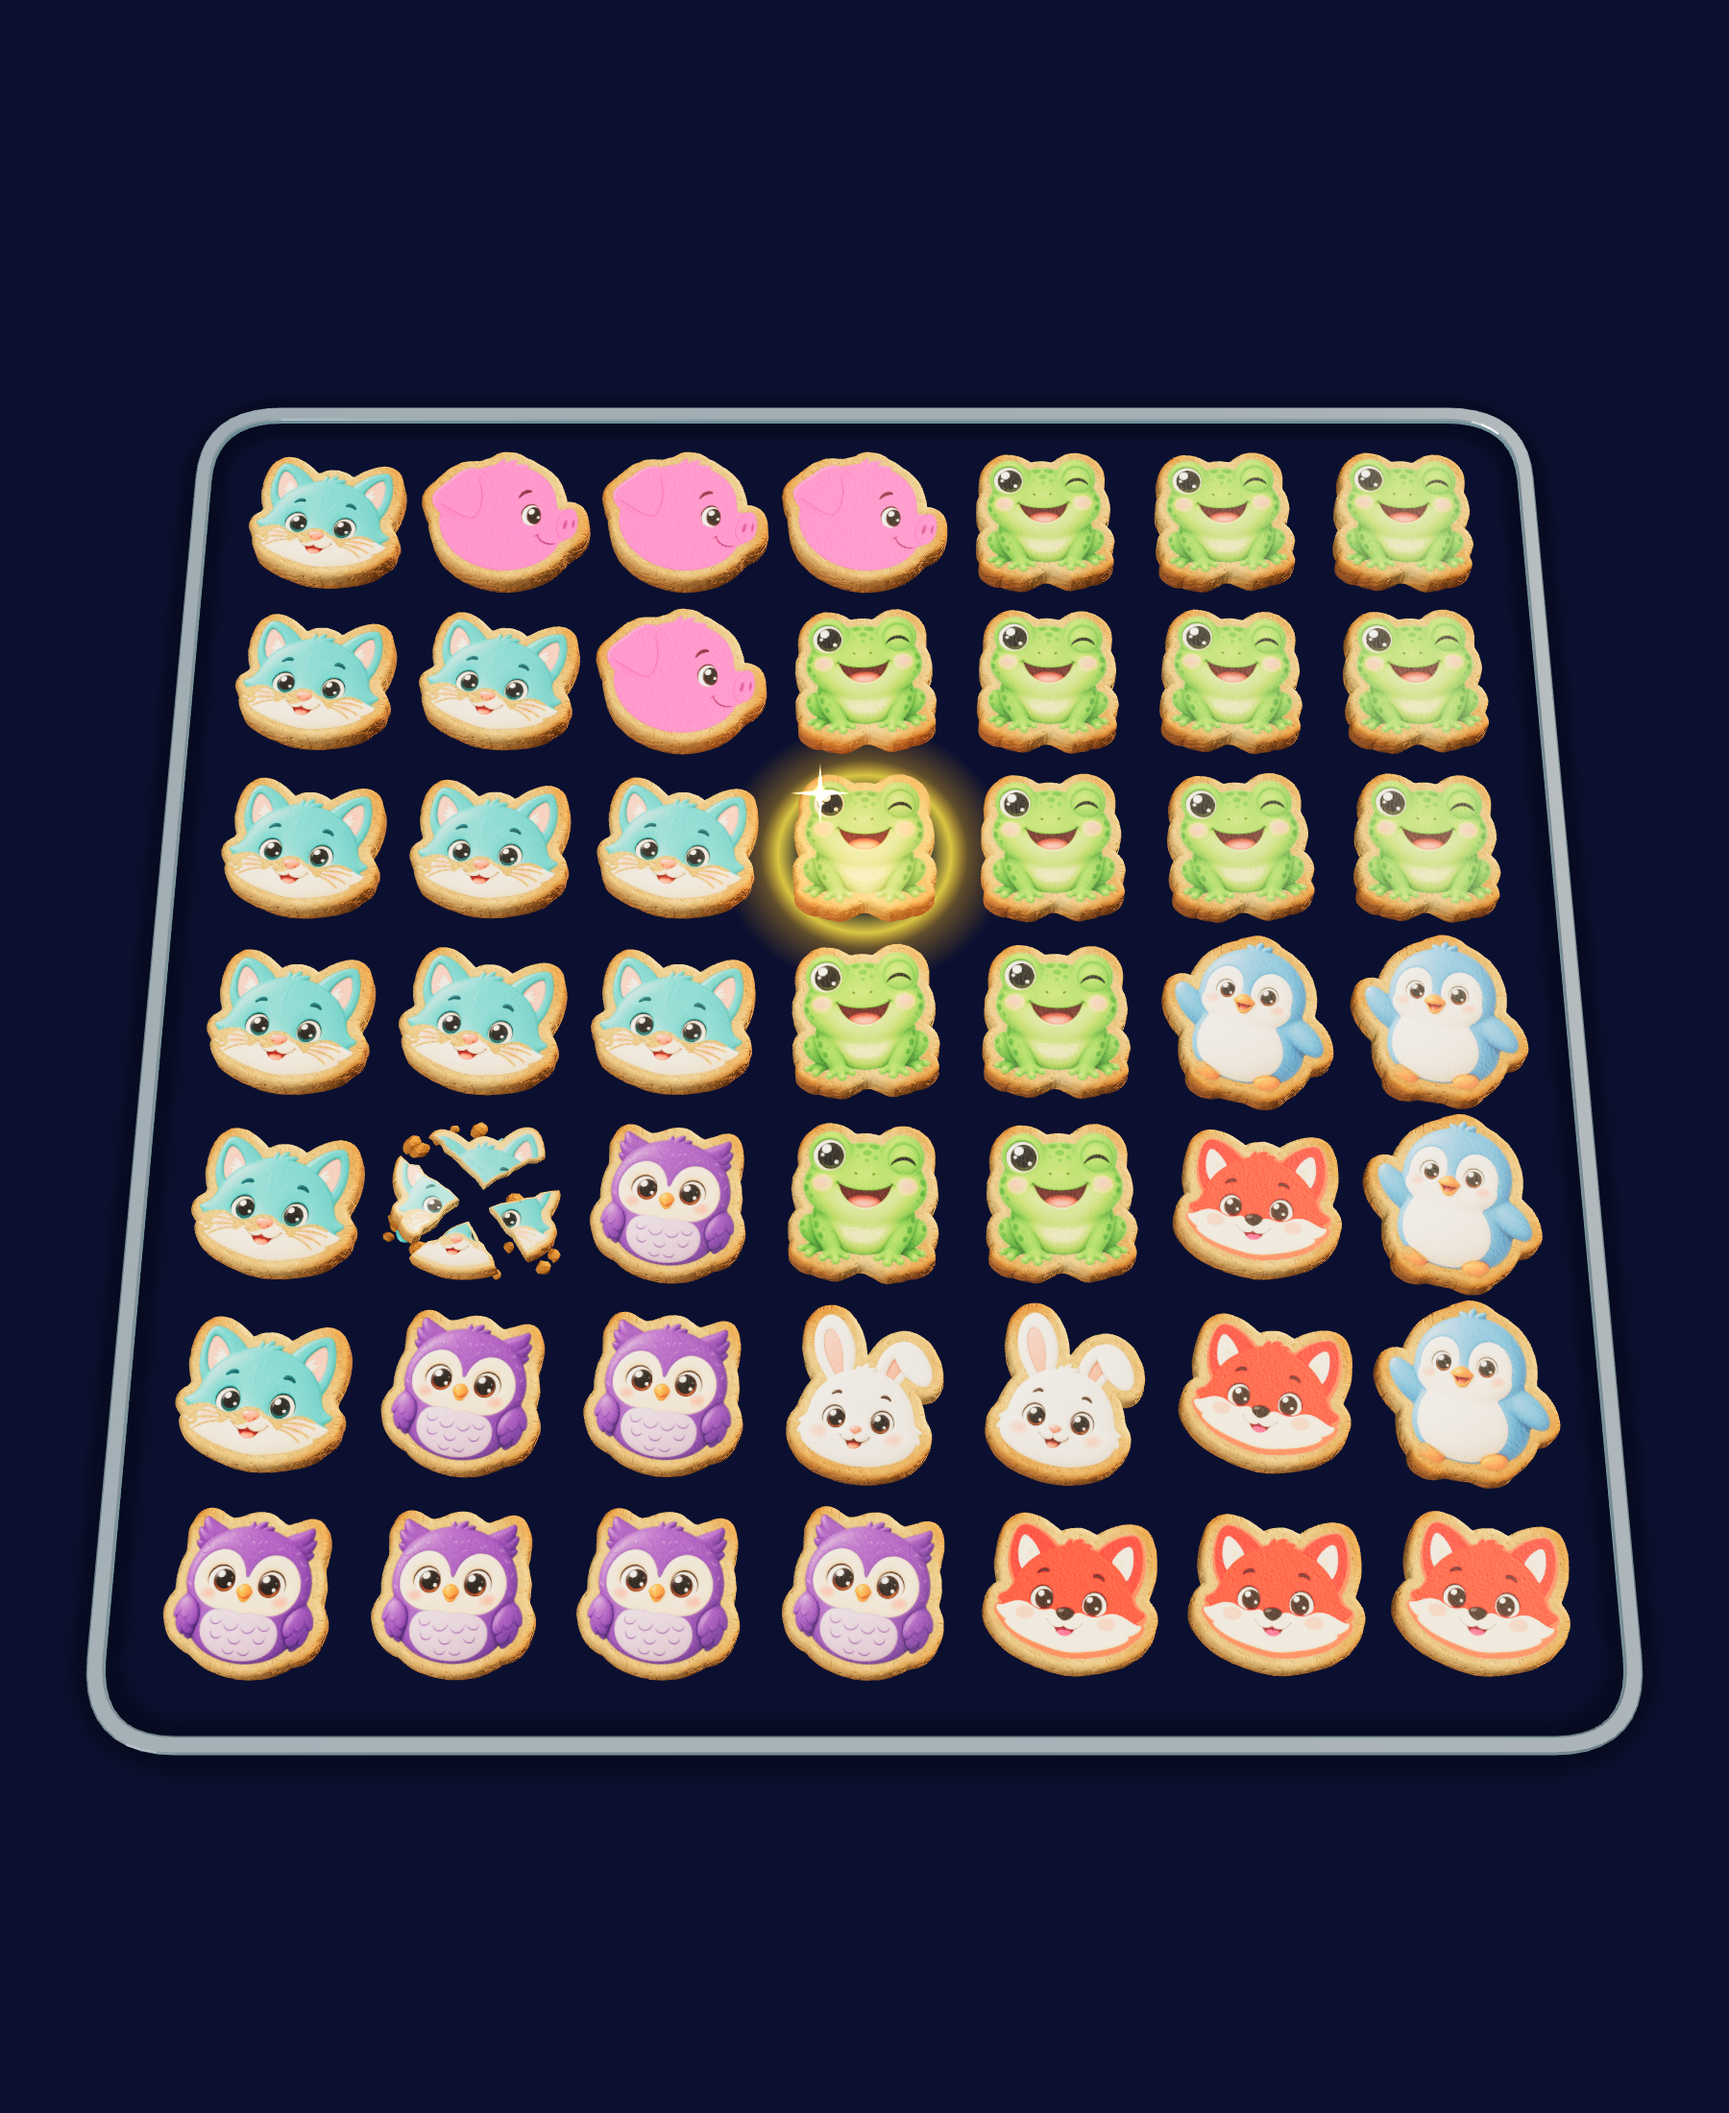
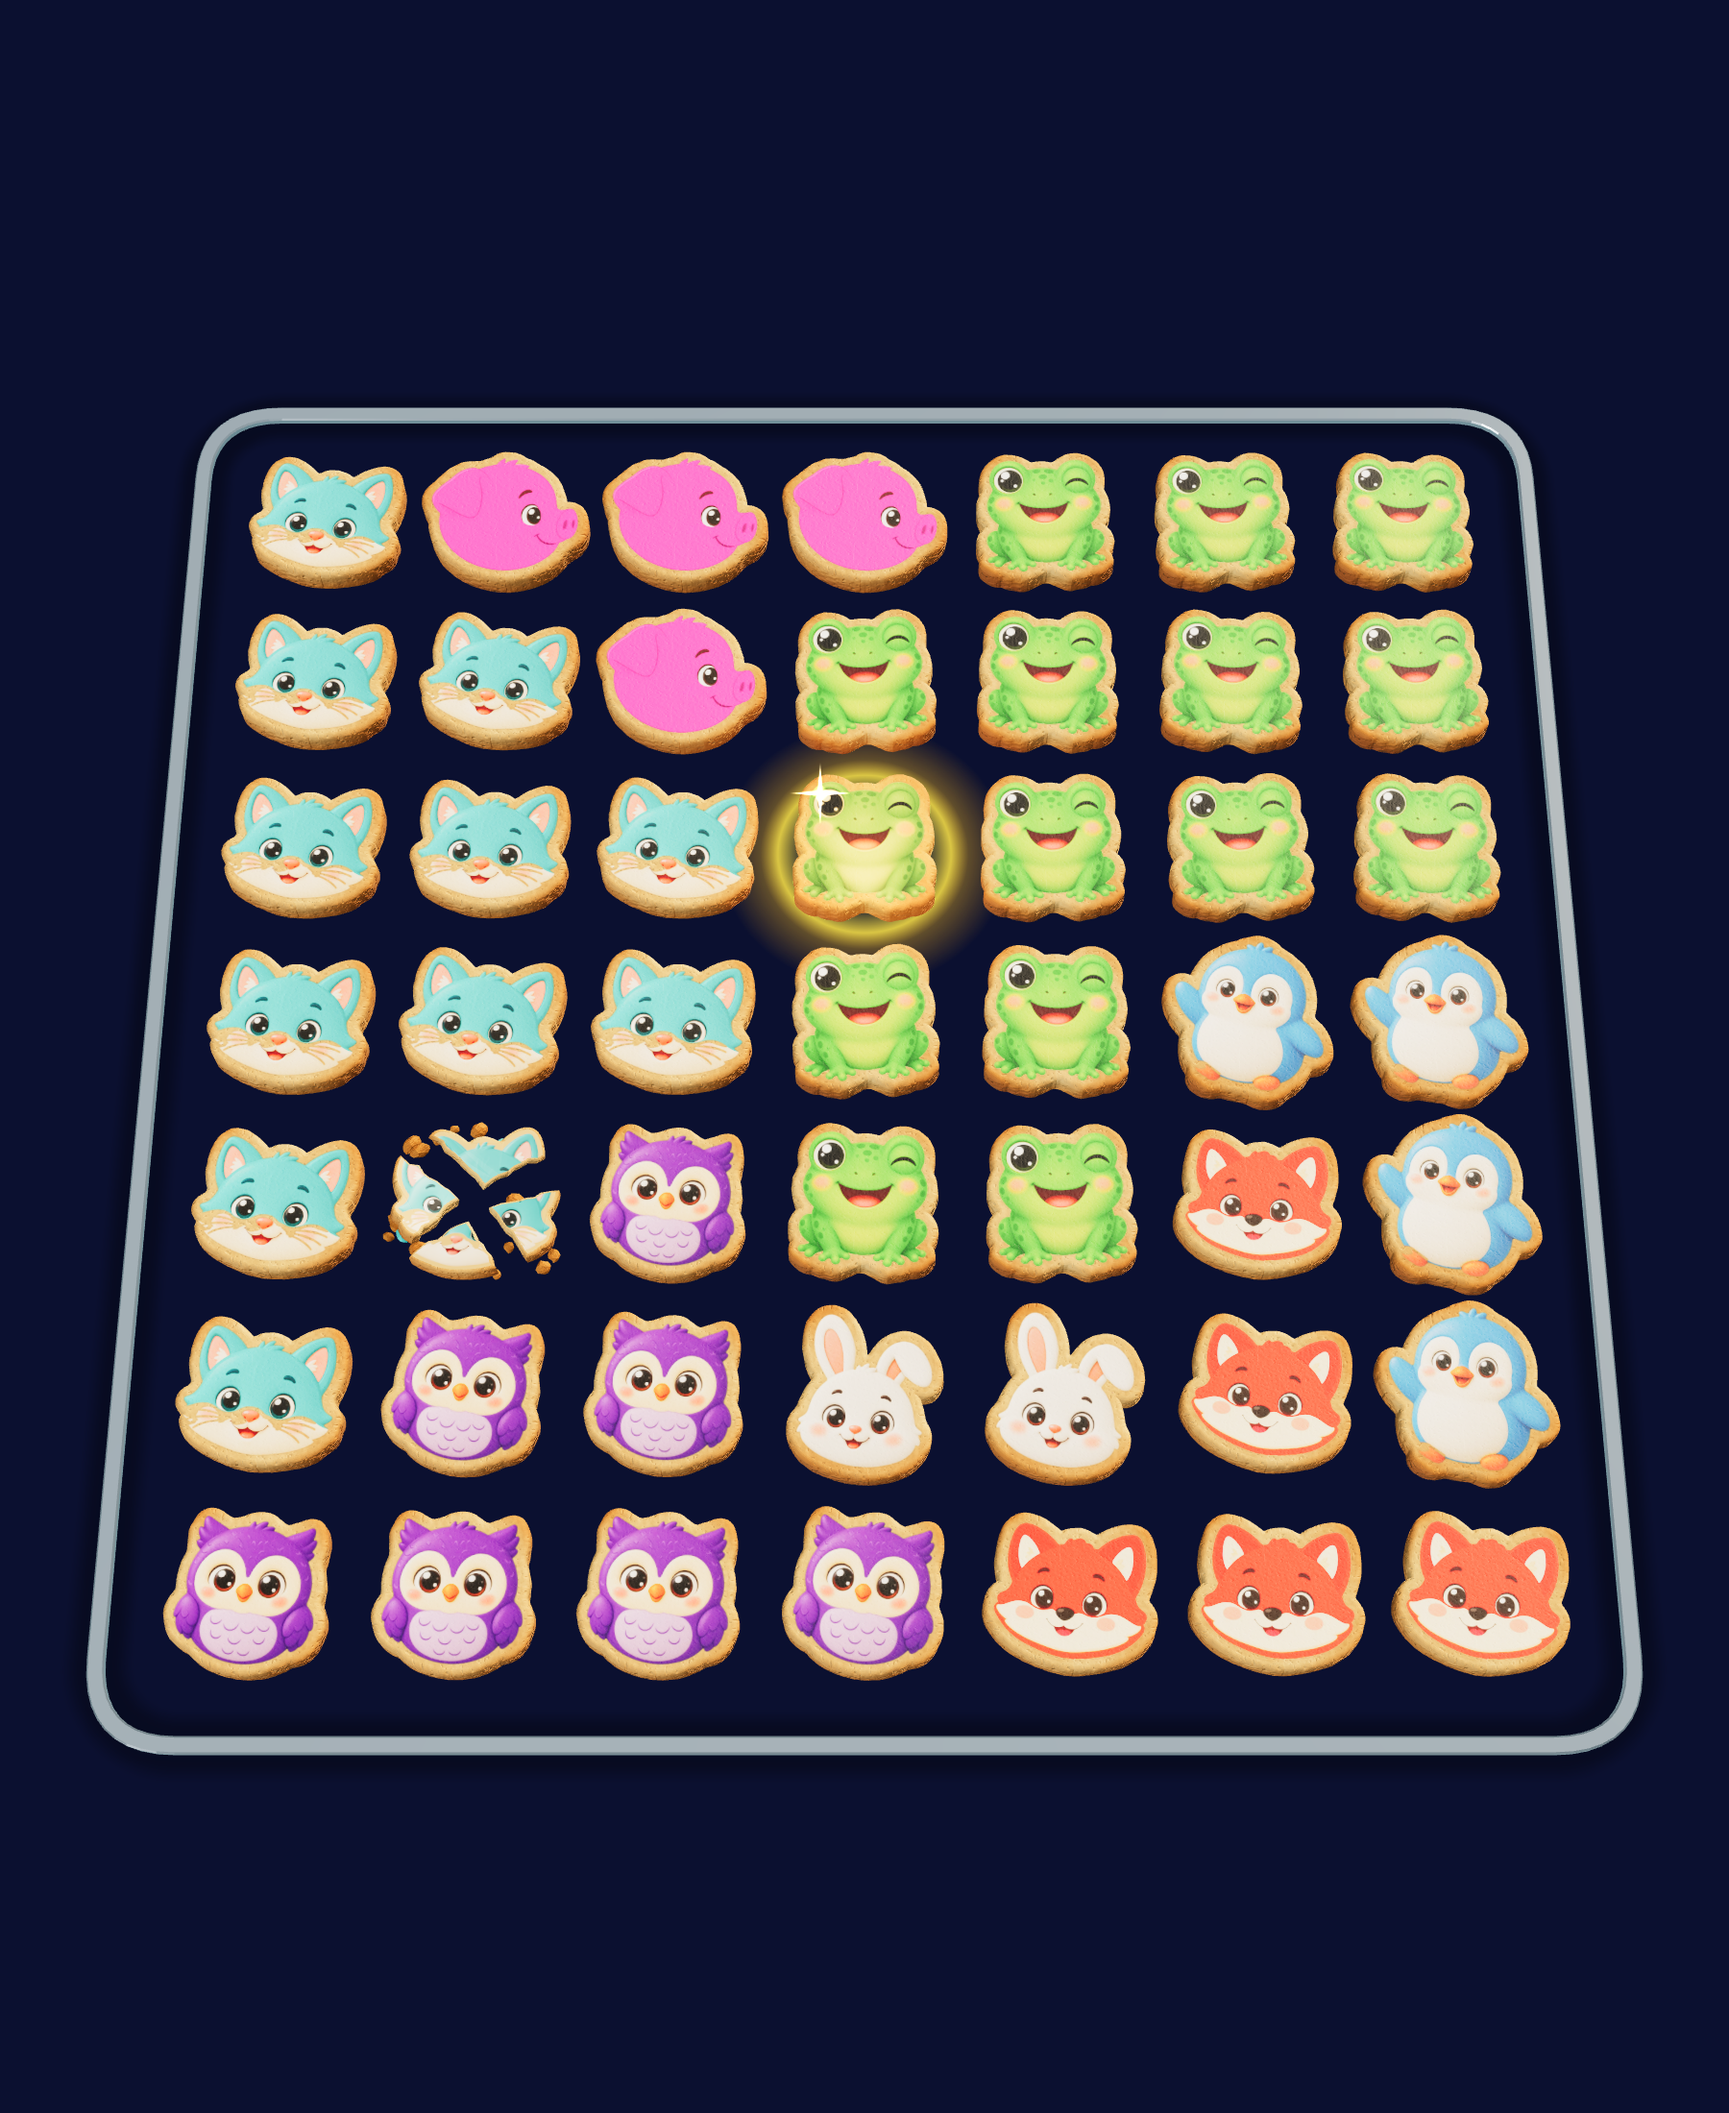
Keks-Studie Set F: finale Renders (Lineup, Nahaufnahmen, Brett mit kräftigerem Druck), README

diff --git a/design-concepts/cookies/render.html b/design-concepts/cookies/render.html
@@ -11,6 +11,7 @@ const q = new URLSearchParams(location.search), SET = q.get('set') || 'A', VIEW 
 const host = document.getElementById('host');
 const ready = () => document.documentElement.dataset.ready = '1';
 window.onerror = e => { document.documentElement.dataset.error = String(e); };
+if (VIEW === 'board') globalThis.PRINT_SAT = +(q.get('psat') || 1.5);
 if (SET === 'F') await (await import('./cookies-f.mjs')).loadArt();
 globalThis.COOKIE_N = +(q.get('n') || (VIEW === 'board' ? 640 : 1024));
 if (VIEW === 'board') {

diff --git a/design-concepts/cookies/README.md b/design-concepts/cookies/README.md
@@ -29,9 +29,15 @@ Gelb bleibt die Leuchtfarbe.
   - Augen im Pixar-Stil mit Blickrichtung (`S.look`).
   - Nahaufnahmen: `view=closeups&keys=2,7,9`.
 
+- **F · Bedruckte Kekse** (`cookies-f.mjs`, `art/`): echter 3D-Mürbeteig-Keks in der Silhouette des Tiers, mit Backrand. Das Pixar-Motiv ist flach aufgedruckt, mit ganz leichtem Glanz und ohne Relief.
+  - `art/prepare.py` stellt die Original-JPGs in `art/src/` frei und entfernt gezeichnete Keksränder.
+  - Es schiebt die Farben in Richtung der Regionsfarben (Fuchs → Rot, Schwein → Pink, Frosch → Grün, Eule → Lila).
+  - Es schreibt Texturen mit 512 px (`*.webp` für Mobilgeräte, `*.png`) und `outlines.json` (Umriss = Motiv + Backrand).
+  - Vor `buildCookie('F', …)` muss `await loadArt()` laufen.
+
 ## Dateien
 - `cookies.mjs`: die Bibliothek, mit dem `three` aus `vendor/squish-attack`, also dieselbe Version wie im Spiel. Mit `buildCookie(set, farbe, {state, size})` bekommst du eine `THREE.Group`, die sich direkt ins Spiel setzen lässt.
-  - `set`: `'A' | 'B' | 'C' | 'D' | 'E'`
+  - `set`: `'A' | 'B' | 'C' | 'D' | 'E' | 'F'`
   - `state`: `'normal' | 'lit' | 'crumbled'`
   - Prozedural erzeugt: Teig-Textur, Bräunung über Vertex-Farben, Guss als Höhenfeld aus gezeichneten Gesichtern (`FACES`), Umrisse (`SILHOUETTE`), Bruchstücke und Krümel.
 - `render.html?set=A&view=lineup|board|single[&key=2&state=lit]`: die Render-Seite.
